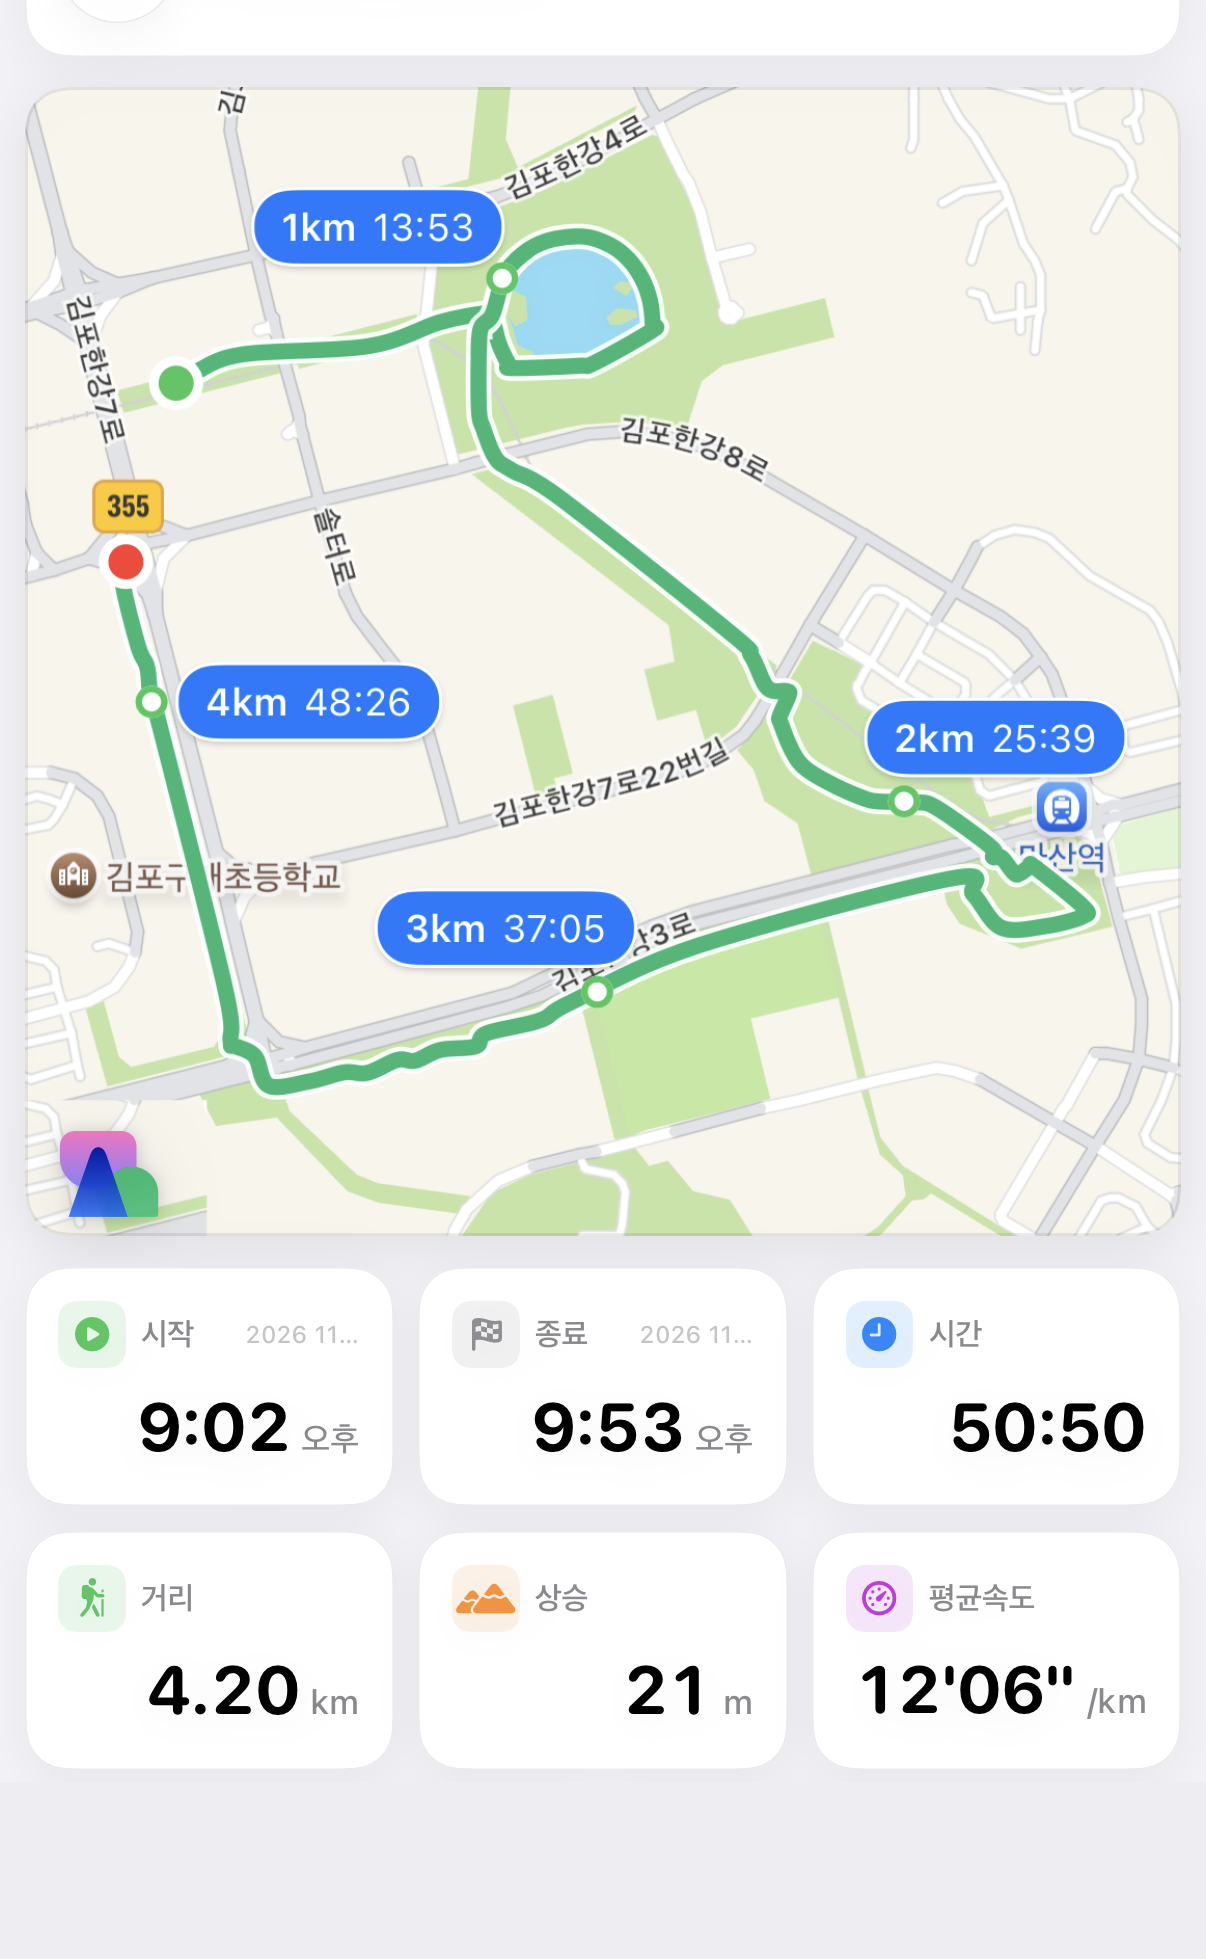
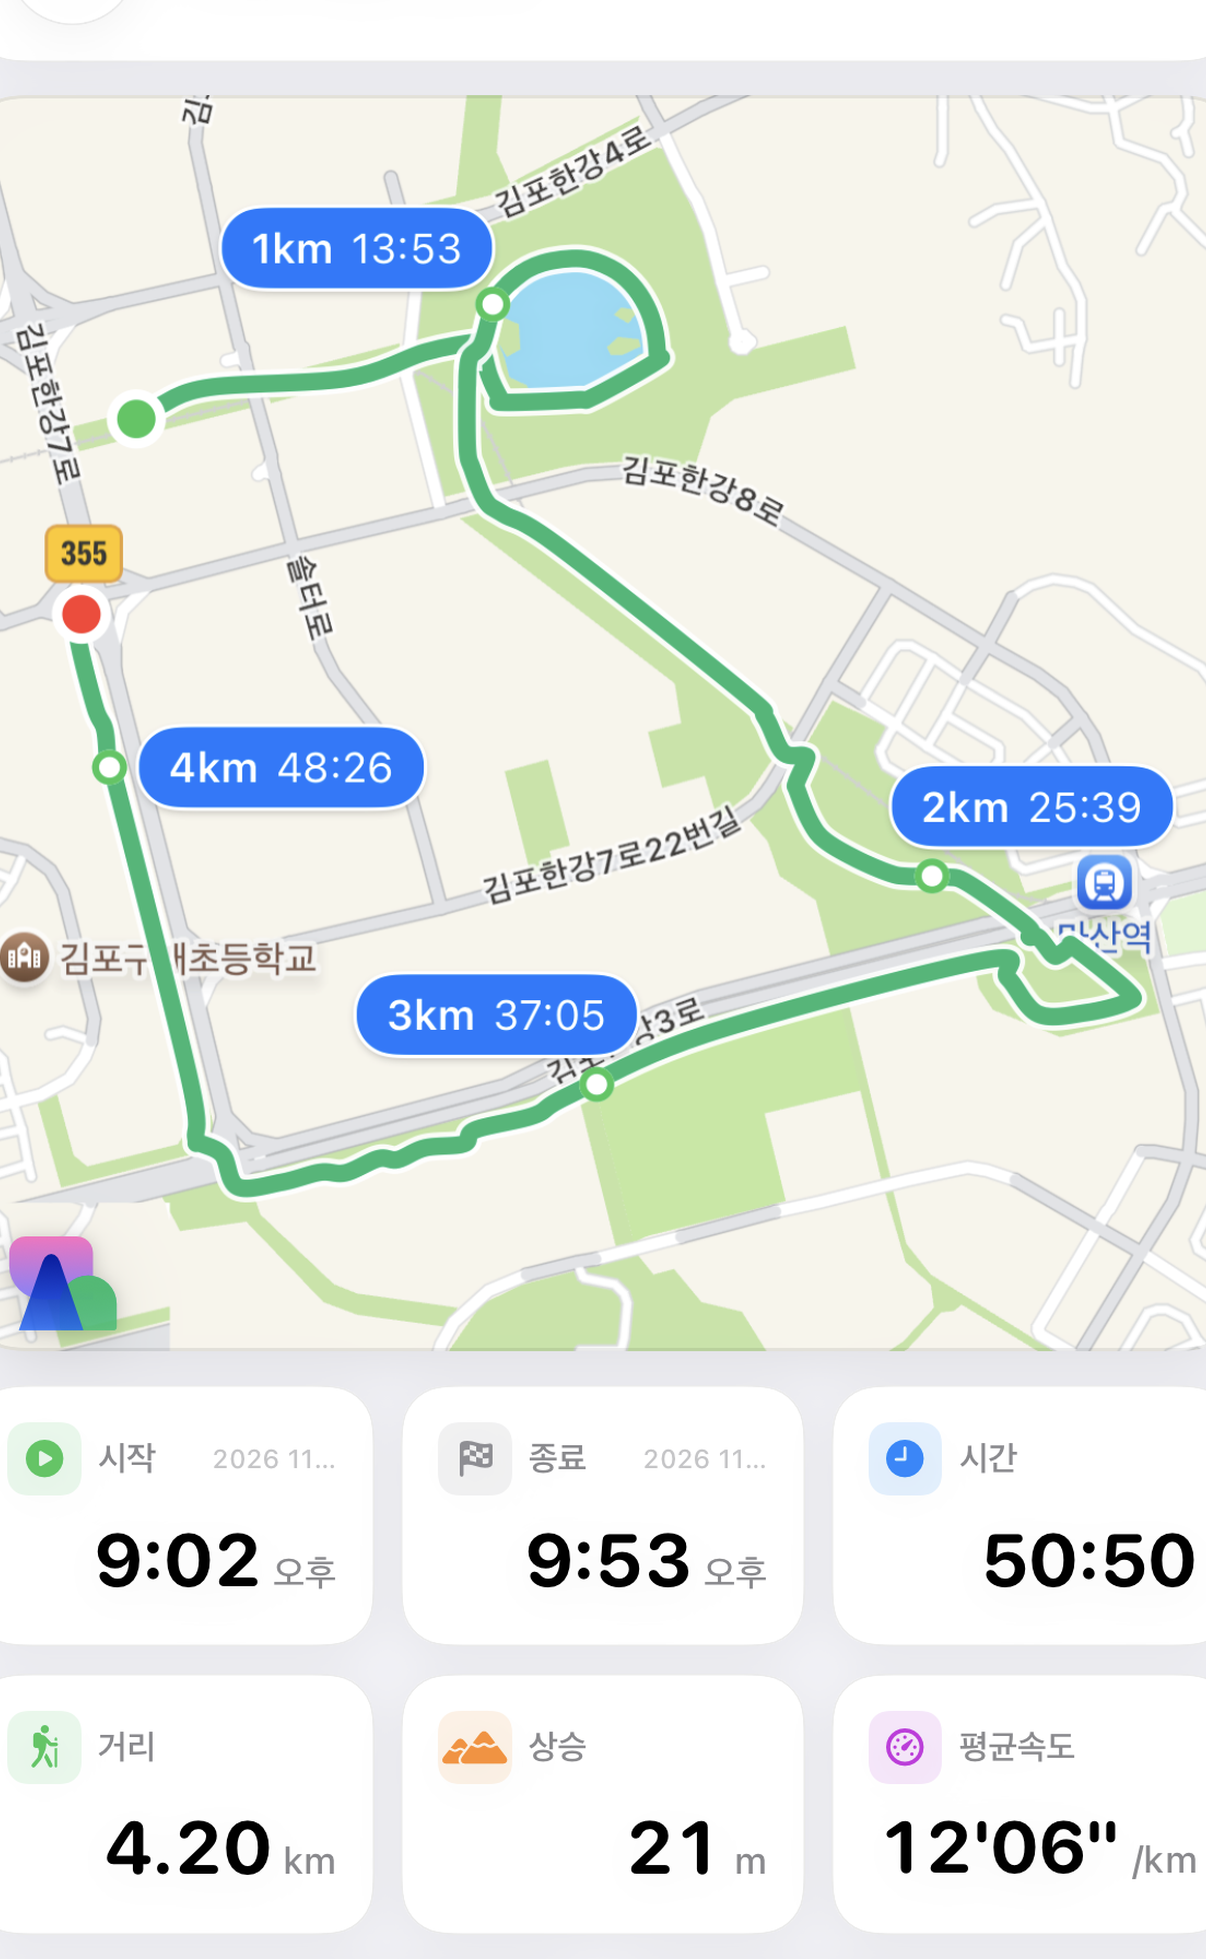
fix(ios): v19 preview SoT — DC scale-fill, no empty plate
Keep shared 314:510 card size. Data Card uses scale≈1.093 so map+two
metric rows fill the thumb; remove hard_cut grey plate band. SG/SC
unchanged from v18h. Preview only.

diff --git a/sansan/ImageSaveStylePager.swift b/sansan/ImageSaveStylePager.swift
@@ -4,9 +4,9 @@
 //
 //  Settings: horizontal pages + bottom pill-spring dots (light-mode tokens).
 //  Swipe/dots change VIEWED page only — selection is preference storage.
-//  v18h JW: shared crop SoT 314∶510. SC/SG bias +32 + logo omit_fill;
-//  DC bias +308 (y0=250 tops unchanged). DC thumb hard-cut in gutter
-//  above 걸음수 (no tertiary fade). Page-dot 22pt. Morph unchanged.
+//  v19a JW: shared card 314∶510. SG/SC same as v18h (+32, omit_fill).
+//  DC scale≈1.0993 fills map+2 rows to thumb foot (no empty plate band).
+//  Page-dot 22pt. Morph unchanged. Preview only.
 //  NO card shadow/bg. Dots BELOW preview. Title TL + Morph TR; thumbs
 //  pre-framed per crop table (Android copies same numbers). 「선택 완료」
 //  saved-only; footer follows VIEWED. Preview thumbs only — save untouched.
@@ -31,7 +31,7 @@ private enum ImageSaveStylePagerTokens {
     static let dotSize: CGFloat = 8
     static let pillWidth: CGFloat = 20
     static let gap: CGFloat = 14
-    /// Settings preview framing — shared crop SoT with Android (v18h).
+    /// Settings preview framing — shared crop SoT with Android (v19a).
     /// Aspect **314∶510**; at list width ≈ 370pt → card height ≈ **601pt**.
     static let cardAspectWidth: CGFloat = 314
     static let cardAspectHeight: CGFloat = 510
@@ -234,7 +234,7 @@ struct ImageSaveStylePager: View {
     @ViewBuilder
     private func pageImage(for style: HikingRecordImageSaveStyle) -> some View {
         if let image = ImageSaveStylePreviewImages.image(for: style) {
-            // Resources are pre-framed 314∶510 per shared crop SoT (see v18 CROP_SOT).
+            // Resources are pre-framed 314∶510 per shared crop SoT (see v19 CROP_SOT).
             // Fit (not Fill) so matching-aspect thumbs are not re-cropped at runtime.
             Image(uiImage: image)
                 .resizable()
